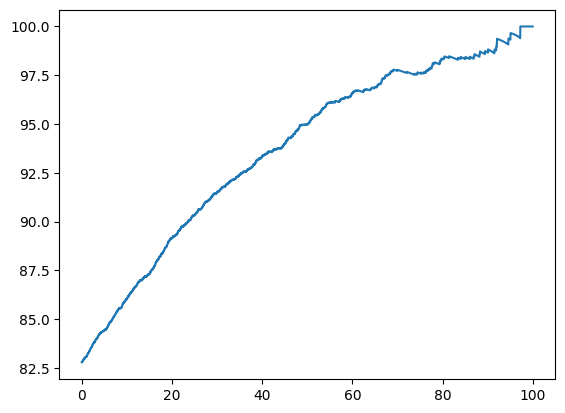
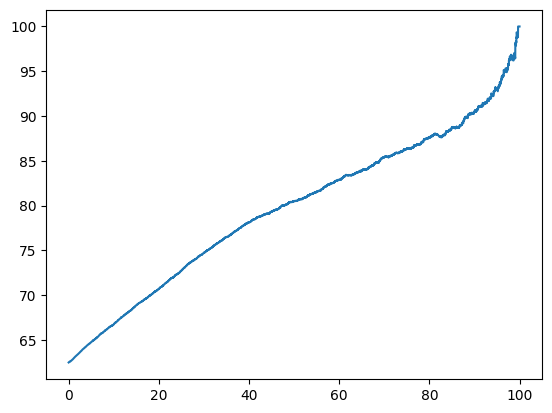
amazon_bow50 loaded, blocks created, unc plot on first block

diff --git a/UncExplain.py b/UncExplain.py
@@ -1,4 +1,3 @@
-from os import sep
 import numpy as np
 from sklearn.model_selection import train_test_split
 from sklearn.ensemble import RandomForestClassifier
@@ -6,41 +5,20 @@ import Uncertainty as unc
 import UncertaintyM as uncM
 import matplotlib.pyplot as plt
 
+import data_provider as dp
 
-# Class for loading data
-import classes.io as iox
-io = iox.Io('./')
+# load the data
+features_all, targets_all = dp.load_data("./Data/")
+features_list, targets_list = dp.partition_data(features_all, targets_all,100)
 
-# Identifiers of dataset
-dataset_id = 'amazon-movie-reviews-10000'
-descriptor = io.DESCRIPTOR_DOC_TO_VEC
-details = 'dim50-epochs50'
+features = features_list[0]
+targets = targets_list[0]
 
-# [My note] a -> 1 star. b -> 5 star. First dimention is the key [0] and the text [1]. Second dimention is the index of documents
-
-# Load data text
-texts = io.load_data_pair(dataset_id, io.DATATYPE_TEXT)
-
-# Load data embeddings
-embeddings = io.load_data_pair(dataset_id, io.DATATYPE_EMBEDDINGS, descriptor, details)
-
-# create the dataset (with targets including the keys)
-class_1 = np.array(embeddings.get_a_dict_as_lists()[1]) # get the embeddings (features) for class 1 star
-class_5 = np.array(embeddings.get_b_dict_as_lists()[1]) # get the embeddings (features) for class 5 star
-
-target_1_label = np.zeros(len(class_1)).reshape((-1,1))
-target_5_label = np.ones(len(class_5)).reshape((-1,1))
-target_1_key = np.array(embeddings.get_a_dict_as_lists()[0]).reshape((-1,1)) # get the keys (part of target but not the label) for class 1 star
-target_5_key = np.array(embeddings.get_b_dict_as_lists()[0]).reshape((-1,1)) # get the keys for class 5 star
-
-target_1 = np.concatenate((target_1_label,target_1_key), axis=1)
-target_5 = np.concatenate((target_5_label,target_5_key), axis=1)
-
-features = np.concatenate((class_1,class_5))
-targets = np.concatenate((target_1,target_5))
+print("First block features shape ", features.shape)
+print("First block targets shape ", targets.shape)
 
 # split and shuffel the data
-X_train, X_test, y_train, y_test = train_test_split(features, targets, test_size=0.3, shuffle=True, random_state=1)
+X_train, X_test, y_train, y_test = train_test_split(features, targets, test_size=0.3, shuffle=False, random_state=1)
 
 # train the model
 model = RandomForestClassifier(max_depth=10, n_estimators=10, random_state=1)

diff --git a/data_provider.py b/data_provider.py
@@ -3,18 +3,20 @@ from classes.amazon_pickle_reader import AmazonPickleReader
 
 def load_data(data_address):
     data = AmazonPickleReader(data_address)
-    features = data.get_all_bow50()["data"][0]
-    targets  = np.array(data.get_all_bow50()["data"][1])[:,[1, 4]]
-    print(features.shape)
-    print(targets.shape)
+    features = data.get_all_bow50()["data"][0] # 0 gives the embeddings and 1 gives the metadata
+    targets  = np.array(data.get_all_bow50()["data"][1])[:,[1, 4]] # colomn index 1 is the class labels and colomn index 4 the text keys
+    return features, targets.astype(int)
 
-    d = data.get_bow50(84090, metadata=True)
-    print("------------------------------------")
-    for i in range(10):
-        print(targets[i])
-    print("done")
-    return features, targets
+def partition_data(features, targets, partition_number):
+    features_list = []
+    targets_list = []
 
+    partition_len = int(len(features) / partition_number)
+
+    for i in range(partition_number):
+        features_list.append(features[i*partition_len: (i+1) * partition_len])
+        targets_list.append(targets[i*partition_len: (i+1) * partition_len])
+    return features_list, targets_list
 
 
 # Code for loading 1 star 5 star toy data

diff --git a/test.py b/test.py
@@ -1,4 +1,4 @@
 import data_provider as dp
 
-dp.create_data("./Data/")
-# dp.create_data("amazon_bow_50.pickle")
+features, targets = dp.load_data("./Data/")
+features_list, targets_list = dp.partition_data(features, targets,10)
